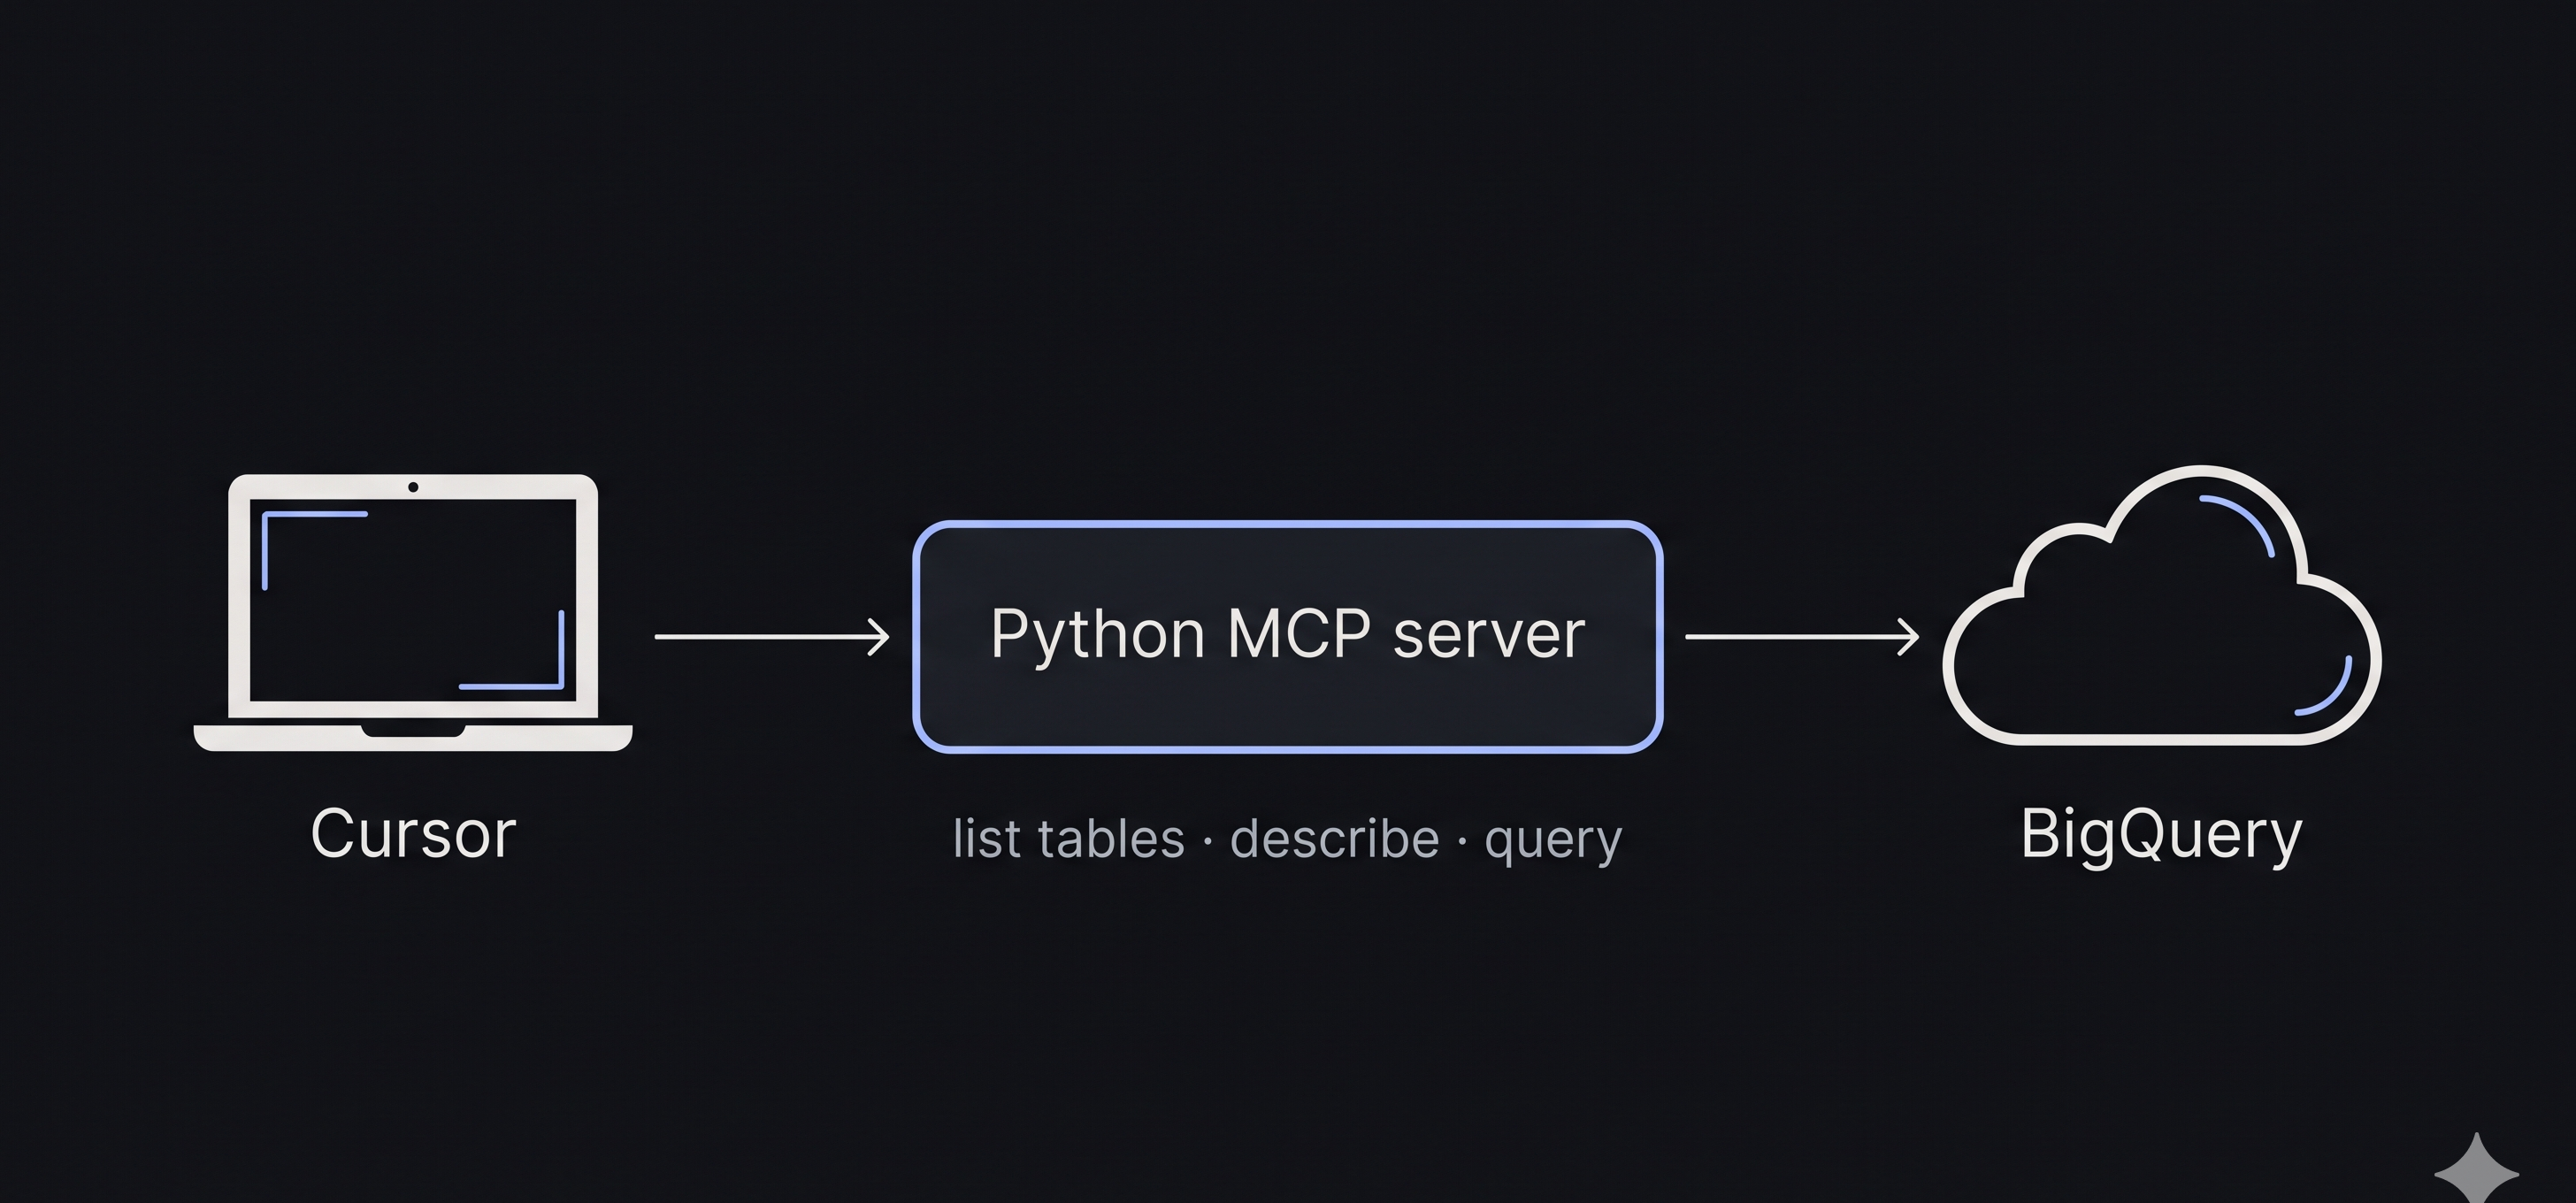
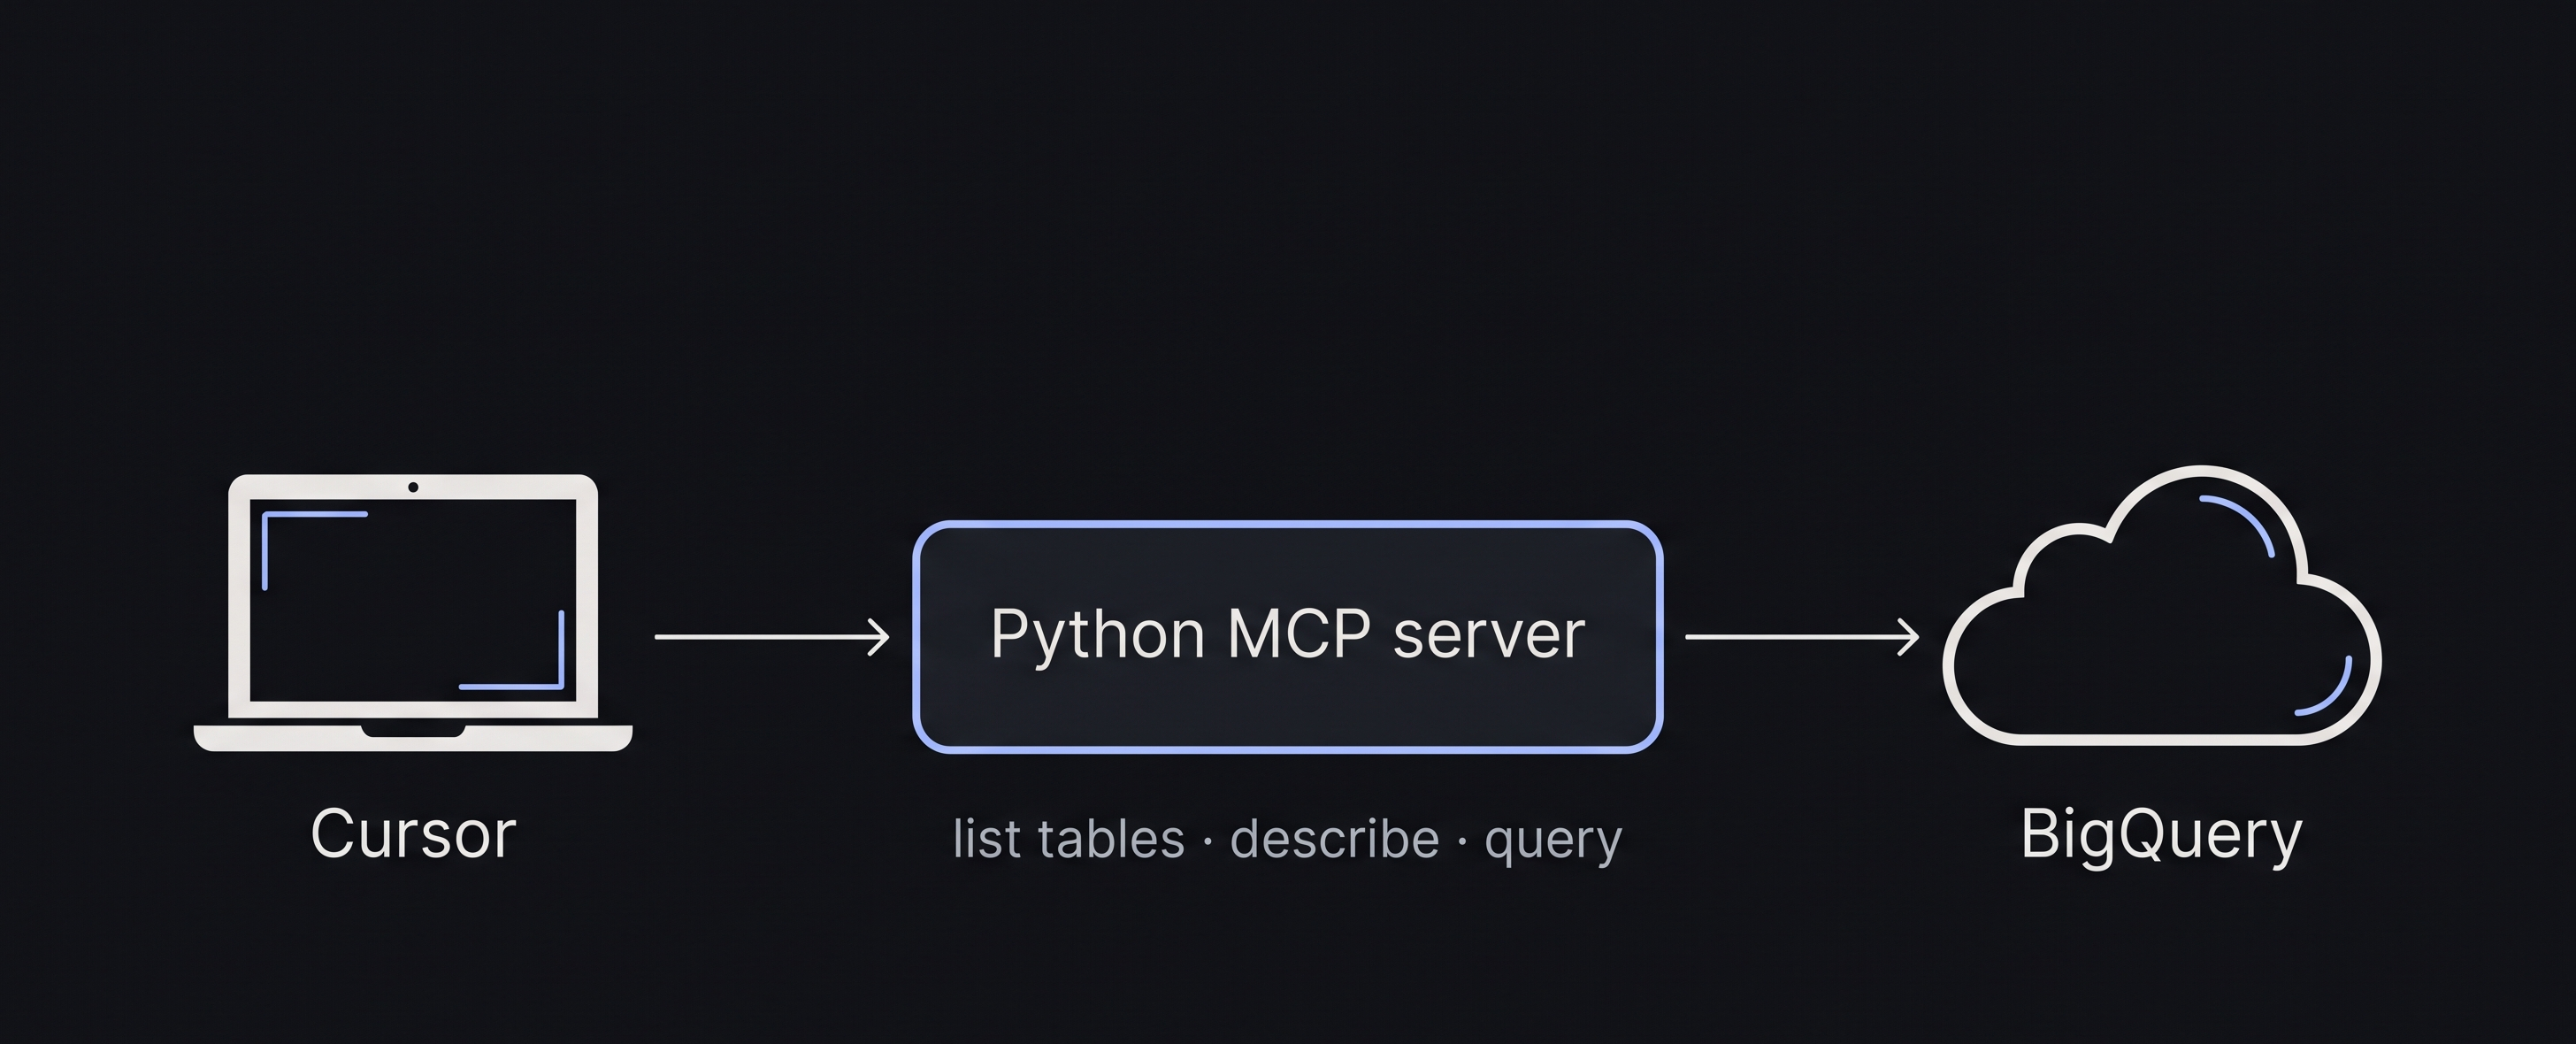
Clarify MCP post site context and crop diagram further.
Tighten bottom crop on the flow image and rewrite the ICFES load-to-query link in plain language.

diff --git a/_posts/2026-06-27-mcp-bigquery-server-python-english.md b/_posts/2026-06-27-mcp-bigquery-server-python-english.md
@@ -289,7 +289,11 @@ Replace table and column names with yours.
 
 ## How this fits the rest of the site
 
-The [ICFES + BigQuery post](/posts/icfes-english/) shows how to load data. This post is the read path when an **LLM** (large language model) in Cursor, Claude, or Codex sits on top of the warehouse.
+This site already has a post that **loads** Colombian ICFES data into BigQuery ([ICFES + BigQuery](/posts/icfes-english/)). That is step one: get tables into the warehouse.
+
+This MCP post is **step two**: let an assistant in Cursor, Claude, or Codex **read** those tables through fixed tools—without you copying SQL from chat into the BigQuery console.
+
+Same data, two moments: **load** (ICFES tutorial) → **query with guardrails** (this post).
 
 ## Limits
 